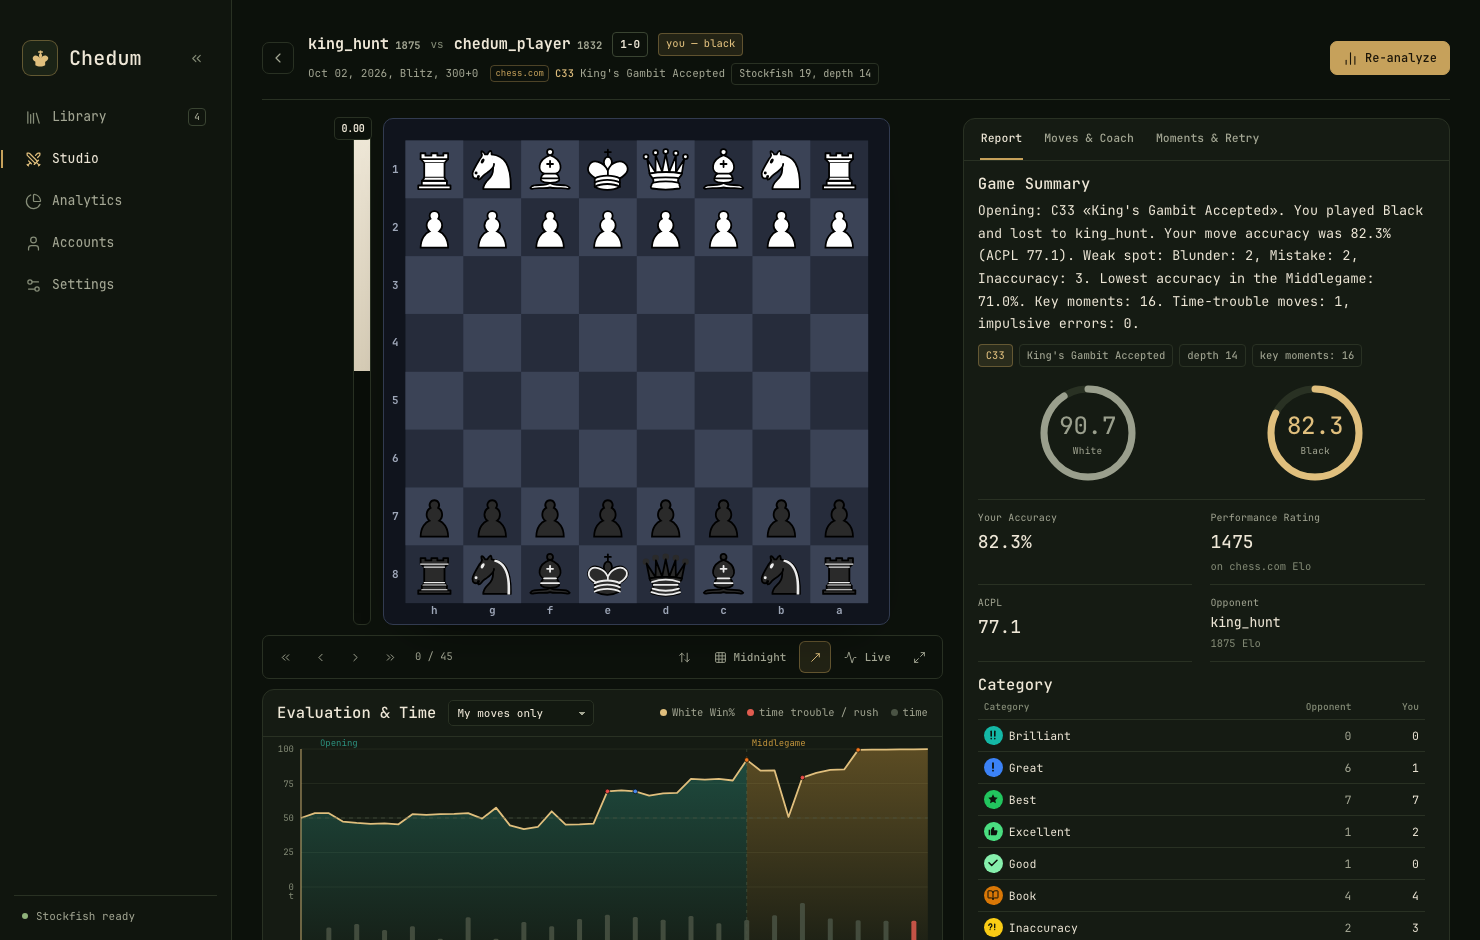
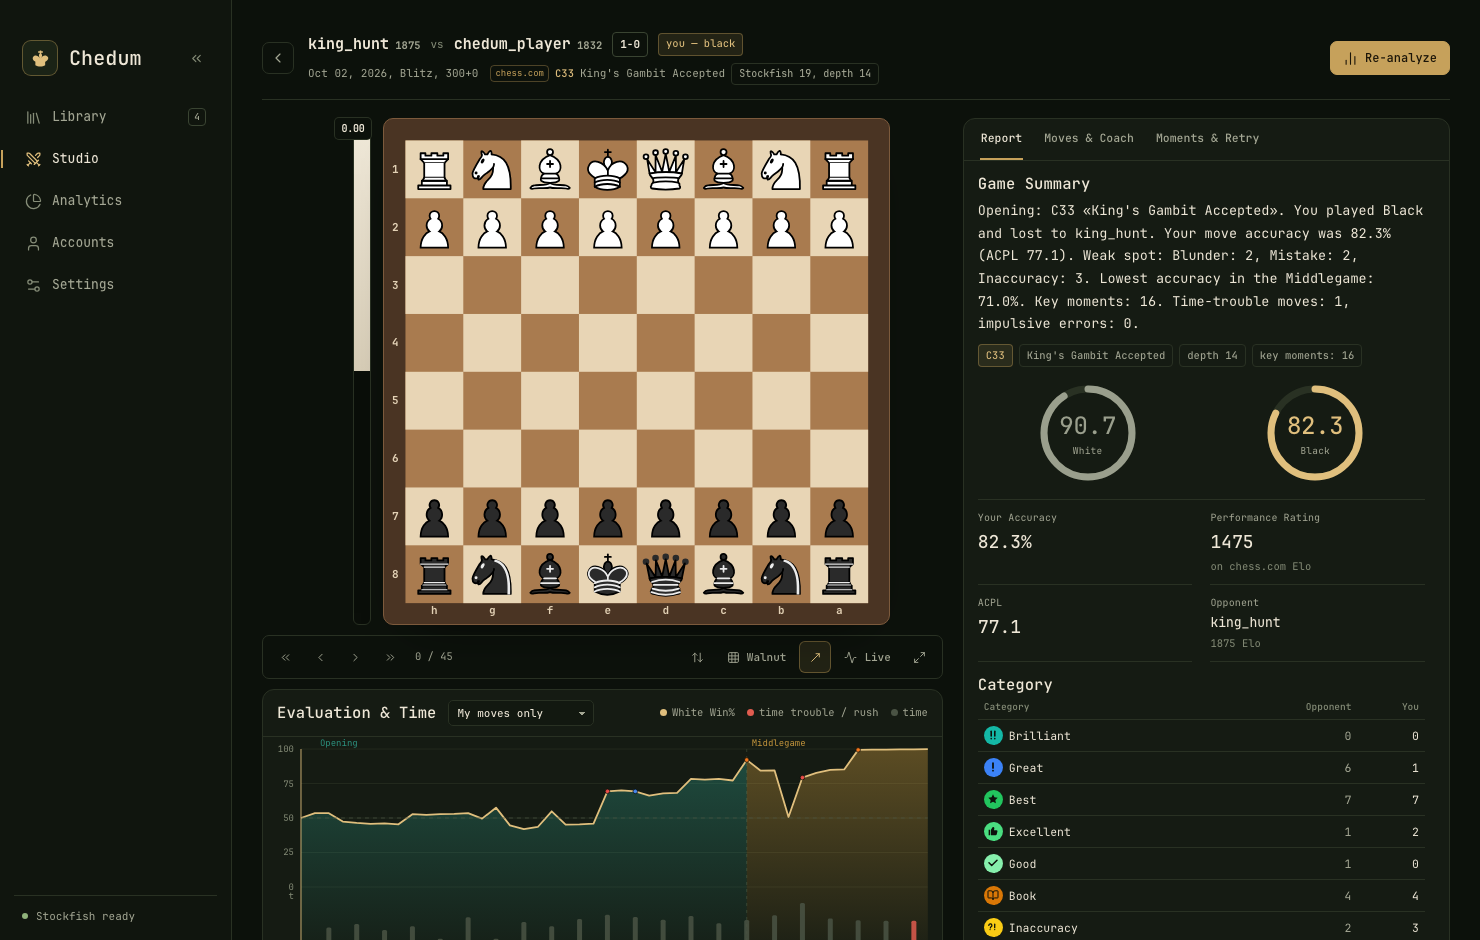
feat: set walnut as default board theme and refresh README screenshots (#2)
* feat: set walnut as default board theme and refresh README screenshots

- Set walnut as primary board theme in Rust domain models and TypeScript types
- Update theme cycle fallback, UI appearance picker order, and CSS variable fallbacks to walnut
- Add unit tests verifying default board theme on new installations and fallback handling
- Regenerate README screenshots in docs/screenshots with walnut board theme

* build(ci): migrate macOS runner from deprecated macos-14 to macos-15

Changed region(s): [[0.2486, 0.1234, 0.6216, 0.7096]]

diff --git a/src/styles/app.css b/src/styles/app.css
@@ -1445,9 +1445,9 @@ tr:hover .row-actions,
   padding: 7px;
   border-radius: 10px;
   overflow: hidden;
-  border: 1px solid var(--board-border, #323b50);
+  border: 1px solid var(--board-border, #7c5a3c);
   box-shadow: 0 22px 46px -34px rgba(0, 0, 0, 0.95);
-  background: var(--board-frame, #10141d);
+  background: var(--board-frame, #4a3423);
   position: relative;
   flex: none;
 }
@@ -1471,11 +1471,11 @@ tr:hover .row-actions,
 }
 
 .board-sq-light {
-  fill: var(--sq-light, #3b4356);
+  fill: var(--sq-light, #e8d5b5);
 }
 
 .board-sq-dark {
-  fill: var(--sq-dark, #262c3b);
+  fill: var(--sq-dark, #a97b4f);
 }
 
 .board-sq-last {
@@ -1521,7 +1521,7 @@ tr:hover .row-actions,
 }
 
 .board-coord {
-  fill: var(--coord, #aab3c5);
+  fill: var(--coord, #f0dfc2);
   font-size: 0.19px;
   font-weight: 700;
   opacity: 0.92;

diff --git a/src/components/analytics/AnalysisBoard.tsx b/src/components/analytics/AnalysisBoard.tsx
@@ -14,7 +14,7 @@ import { EvalBar } from "../board/EvalBar";
 import { type ChartScope, EvalChart } from "./EvalChart";
 import { LivePanel } from "./LivePanel";
 
-const THEMES: BoardTheme[] = ["midnight", "walnut", "slate"];
+const THEMES: BoardTheme[] = ["walnut", "midnight", "slate"];
 
 export function AnalysisBoard(props: {
   fullscreen: boolean;
@@ -66,7 +66,7 @@ export function AnalysisBoard(props: {
   const cycleTheme = (): void => {
     const current = settingsStore.settings().boardTheme;
     const index = THEMES.indexOf(current);
-    const next = THEMES[(index + 1) % THEMES.length] ?? "midnight";
+    const next = THEMES[(index + 1) % THEMES.length] ?? "walnut";
     void settingsStore.update({ boardTheme: next });
   };
 

diff --git a/src/components/settings/AppearanceCard.tsx b/src/components/settings/AppearanceCard.tsx
@@ -7,8 +7,8 @@ import { Icon } from "../ui/Icon";
 import { PieceSetPicker } from "./PieceSetPicker";
 
 const THEMES: { value: BoardTheme; label: string; className: string }[] = [
-  { value: "midnight", label: "Midnight", className: "theme-mini-midnight" },
   { value: "walnut", label: "Walnut", className: "theme-mini-walnut" },
+  { value: "midnight", label: "Midnight", className: "theme-mini-midnight" },
   { value: "slate", label: "Slate", className: "theme-mini-slate" },
 ];
 

diff --git a/src/types/chess.ts b/src/types/chess.ts
@@ -1,6 +1,6 @@
 export type Color = "white" | "black";
 export type UserColor = Color | "none";
-export type BoardTheme = "midnight" | "walnut" | "slate";
+export type BoardTheme = "walnut" | "midnight" | "slate";
 export type Language = "ru" | "en";
 export type PieceSet =
   | "cburnett"

diff --git a/src-tauri/src/db/settings_repo.rs b/src-tauri/src/db/settings_repo.rs
@@ -263,6 +263,19 @@ mod tests {
     }
 
     #[test]
+    fn new_install_defaults_to_walnut_board_theme() {
+        let db = Db::in_memory().unwrap();
+        assert_eq!(get_settings(&db).unwrap().board_theme, "walnut");
+    }
+
+    #[test]
+    fn unknown_stored_board_theme_falls_back_to_default() {
+        let mut map = HashMap::new();
+        map.insert("board_theme".to_string(), "unknown".to_string());
+        assert_eq!(settings_from_map(&map).board_theme, "walnut");
+    }
+
+    #[test]
     fn set_many_rejects_unknown_board_theme() {
         let db = Db::in_memory().unwrap();
         let settings = AppSettings {

diff --git a/src-tauri/src/domain/stats.rs b/src-tauri/src/domain/stats.rs
@@ -154,7 +154,7 @@ pub const PIECE_SETS: [&str; 6] = [
     "kiwen-suwi",
 ];
 
-pub const BOARD_THEMES: [&str; 3] = ["midnight", "walnut", "slate"];
+pub const BOARD_THEMES: [&str; 3] = ["walnut", "midnight", "slate"];
 
 #[derive(Debug, Clone, Serialize, Deserialize)]
 #[serde(rename_all = "camelCase")]
